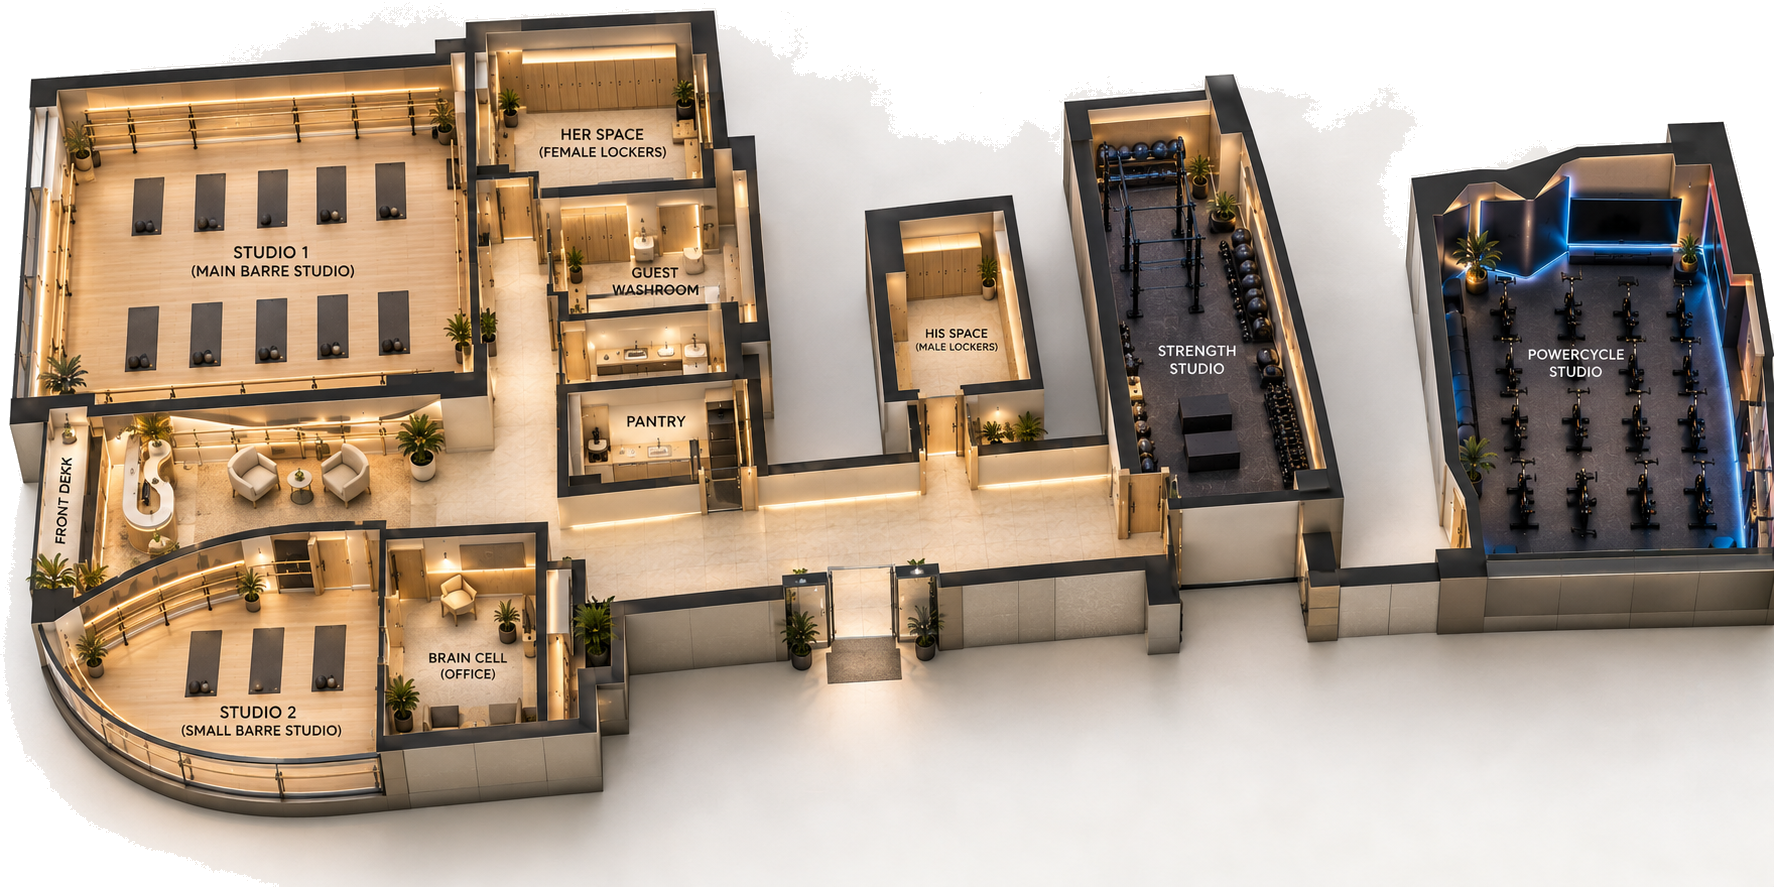
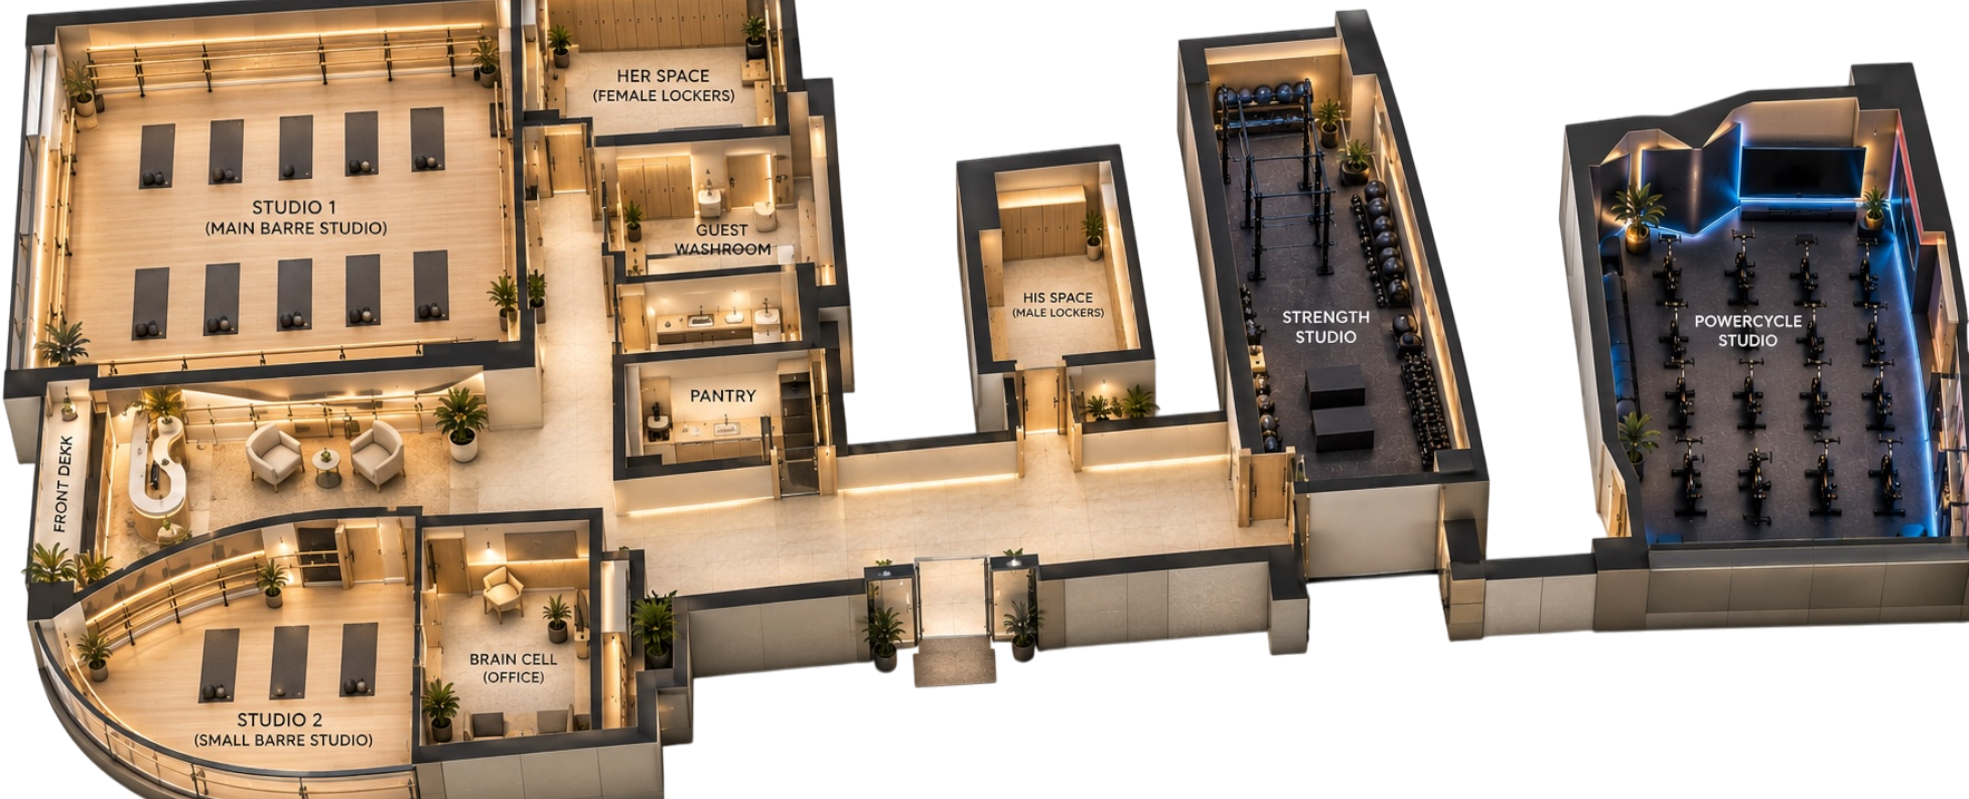
feat: update floorplan and room configurations for Supreme HQ, adding new rooms and adjusting existing ones

diff --git a/src/lib/constants.ts b/src/lib/constants.ts
@@ -106,6 +106,9 @@ export const STUDIO_AREAS = [
   "Lockers & Changing",
   "Washrooms",
   "Washroom & Changing",
+  "Strength Lab",
+  "Barre Studio",
+  "Front Desk",
 ] as const;
 
 export type StudioRoom = {
@@ -134,12 +137,15 @@ export const STUDIO_LAYOUTS: Record<string, { studioName: string; rooms: StudioR
   supreme: {
     studioName: "Supreme HQ, Bandra",
     rooms: [
-      { name: "Studio 1", capacity: 13, category: "studio", description: "Studio 1 (capacity: 13 pax)" },
-      { name: "Studio 2", capacity: 13, category: "studio", description: "Studio 2 (capacity: 13 pax)" },
+      { name: "Strength Lab", capacity: 10, category: "studio", description: "Strength Lab (capacity: 10 pax)" },
       { name: "PowerCycle Studio", capacity: 13, category: "studio", description: "PowerCycle Studio (capacity: 13 pax)" },
-      { name: "Lobby / Reception", category: "common", description: "Lobby & Reception desk" },
-      { name: "Lockers & Changing", category: "washroom", description: "Lockers & shower rooms" },
-      { name: "Washrooms", category: "washroom", description: "Studio washrooms" },
+      { name: "Barre Studio", capacity: 22, category: "studio", description: "Barre Studio (capacity: 22 pax)" },
+      { name: "Brain Cell", category: "workspace", description: "Brain Cell (office space)" },
+      { name: "Her Space", category: "washroom", description: "Her Space (women's washroom & changing)" },
+      { name: "His Space", category: "washroom", description: "His Space (men's washroom & changing)" },
+      { name: "Front Desk", category: "common", description: "Front desk & reception" },
+      { name: "Pantry", category: "workspace", description: "Pantry (staff kitchen)" },
+      { name: "Boutique", category: "common", description: "Retail boutique" },
     ],
   },
   kenkere: {
@@ -196,12 +202,10 @@ export const AREA_ALIASES: Record<string, string> = {
   "cycle studio": "PowerCycle Studio",
   "spin studio": "PowerCycle Studio",
   "cycle room": "PowerCycle Studio",
-  "strength lab": "Strength Studio",
   "strength lab floor": "Strength Studio",
   "main floor": "Main studio floor",
   "reception": "Reception / lobby",
   "reception / lobby": "Reception / lobby",
-  "front desk": "Reception / lobby",
   "locker rooms": "Locker room",
   "changing room": "Lockers & Changing",
   "changing rooms": "Lockers & Changing",

diff --git a/src/components/studio-ops-radar.tsx b/src/components/studio-ops-radar.tsx
@@ -124,9 +124,11 @@ const FLOORPLANS: Record<string, FloorplanConfig> = {
   supreme: {
     src: '/radar/supreme-floorplan.png', width: 1969, height: 799,
     rooms: {
-      'Studio 1': {x: 51, y: 7, w: 24, h: 39}, 'Studio 2': {x: 10, y: 8, w: 22, h: 34},
-      'PowerCycle Studio': {x: 34, y: 7, w: 15, h: 35}, 'Lobby / Reception': {x: 8, y: 42, w: 68, h: 34},
-      'Lockers & Changing': {x: 84, y: 10, w: 12, h: 39}, Washrooms: {x: 84, y: 57, w: 14, h: 30},
+      'Strength Lab': {x: 9, y: 7, w: 24, h: 33}, 'PowerCycle Studio': {x: 33, y: 7, w: 17, h: 33},
+      'Barre Studio': {x: 50, y: 7, w: 21, h: 33}, 'Brain Cell': {x: 71, y: 22, w: 7, h: 30},
+      'Her Space': {x: 83, y: 7, w: 14, h: 30}, 'His Space': {x: 83, y: 52, w: 14, h: 28},
+      'Front Desk': {x: 8, y: 41, w: 23, h: 23}, Pantry: {x: 35, y: 64, w: 36, h: 20},
+      Boutique: {x: 8, y: 64, w: 23, h: 22},
     },
   },
   kenkere: {

diff --git a/scripts/iris-replay.ts b/scripts/iris-replay.ts
@@ -145,7 +145,8 @@ async function main() {
   section('Rooms offered are the rooms that studio has');
 
   const supreme = studioAreasFor('Supreme HQ, Bandra');
-  check('Kwality-only rooms are not offered at Bandra', !supreme.includes('Brain Cell') && !supreme.includes('His Space'), supreme);
+  check('Kwality-only rooms are not offered at Bandra', !supreme.includes('GUEST WASHROOM') && !supreme.includes('Studio 1'), supreme);
+  check('Bandra rooms are its own — Brain Cell and His Space exist there too', supreme.includes('Brain Cell') && supreme.includes('His Space'), supreme);
   check('the PowerCycle studio is offered', supreme.includes('PowerCycle Studio'), supreme);
   check('the two spellings of the cycle studio are one room',
     studioAreasFor('Supreme HQ, Bandra').filter(a => /cycle/i.test(a)).length === 1,
